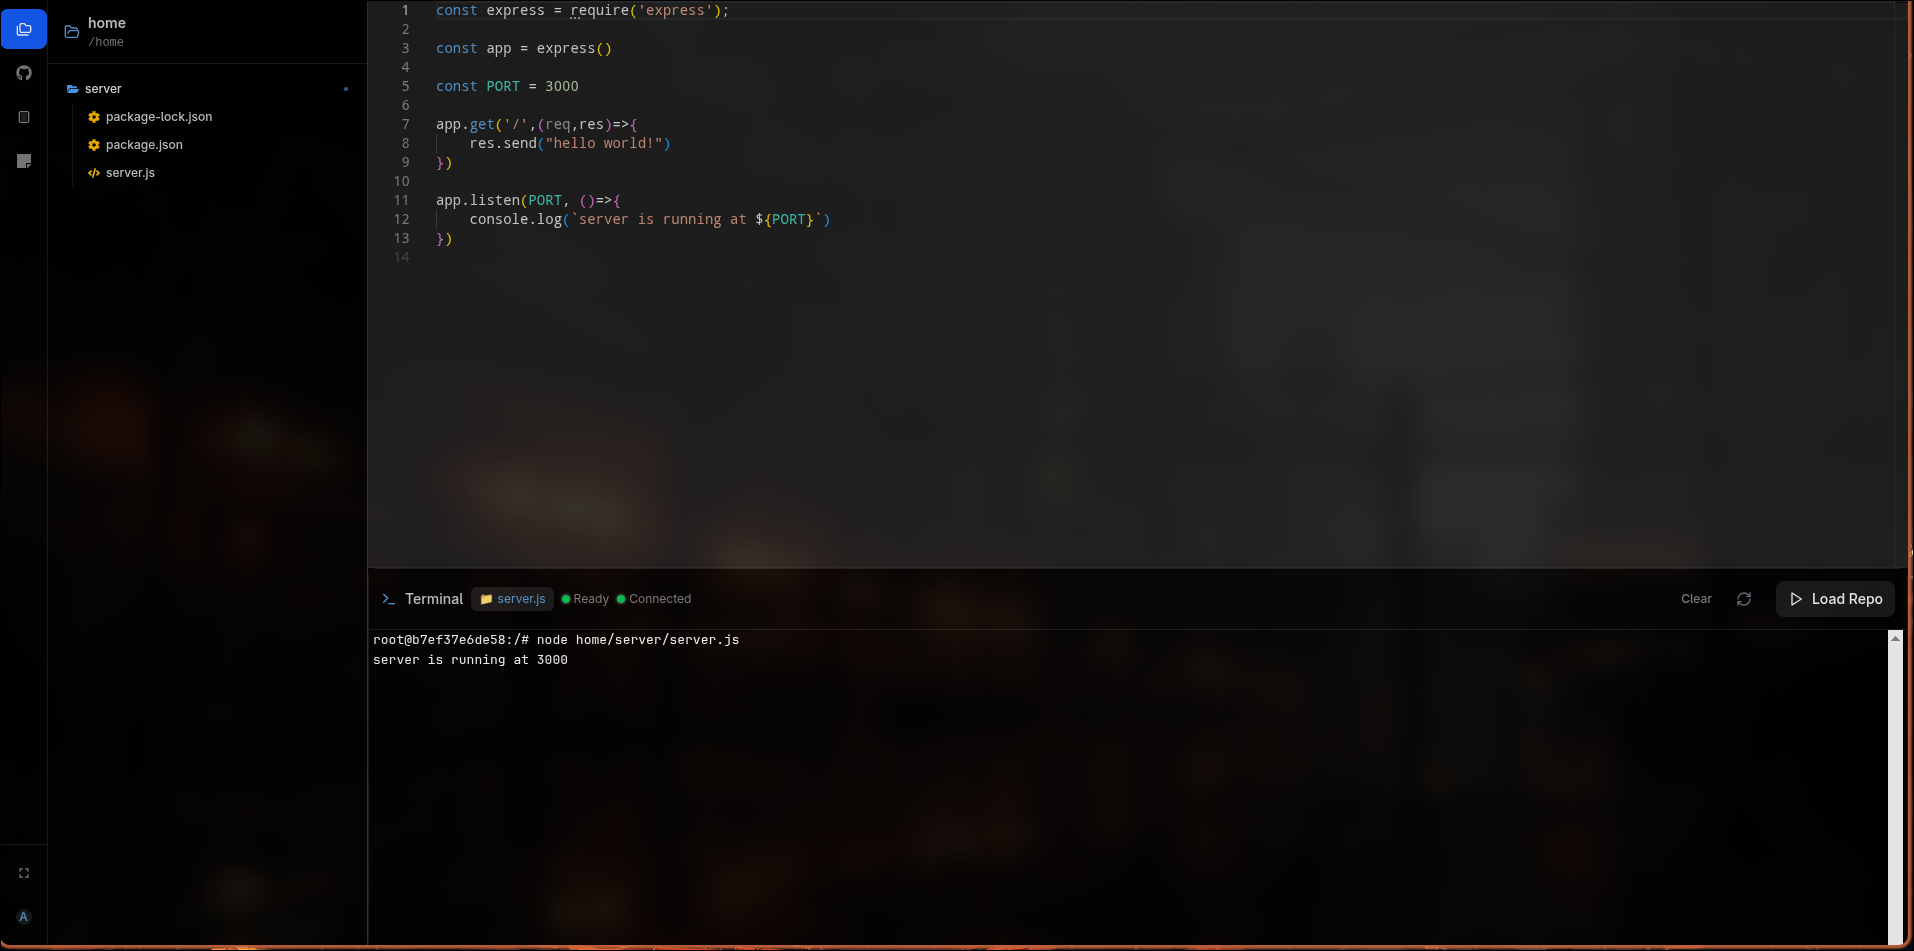
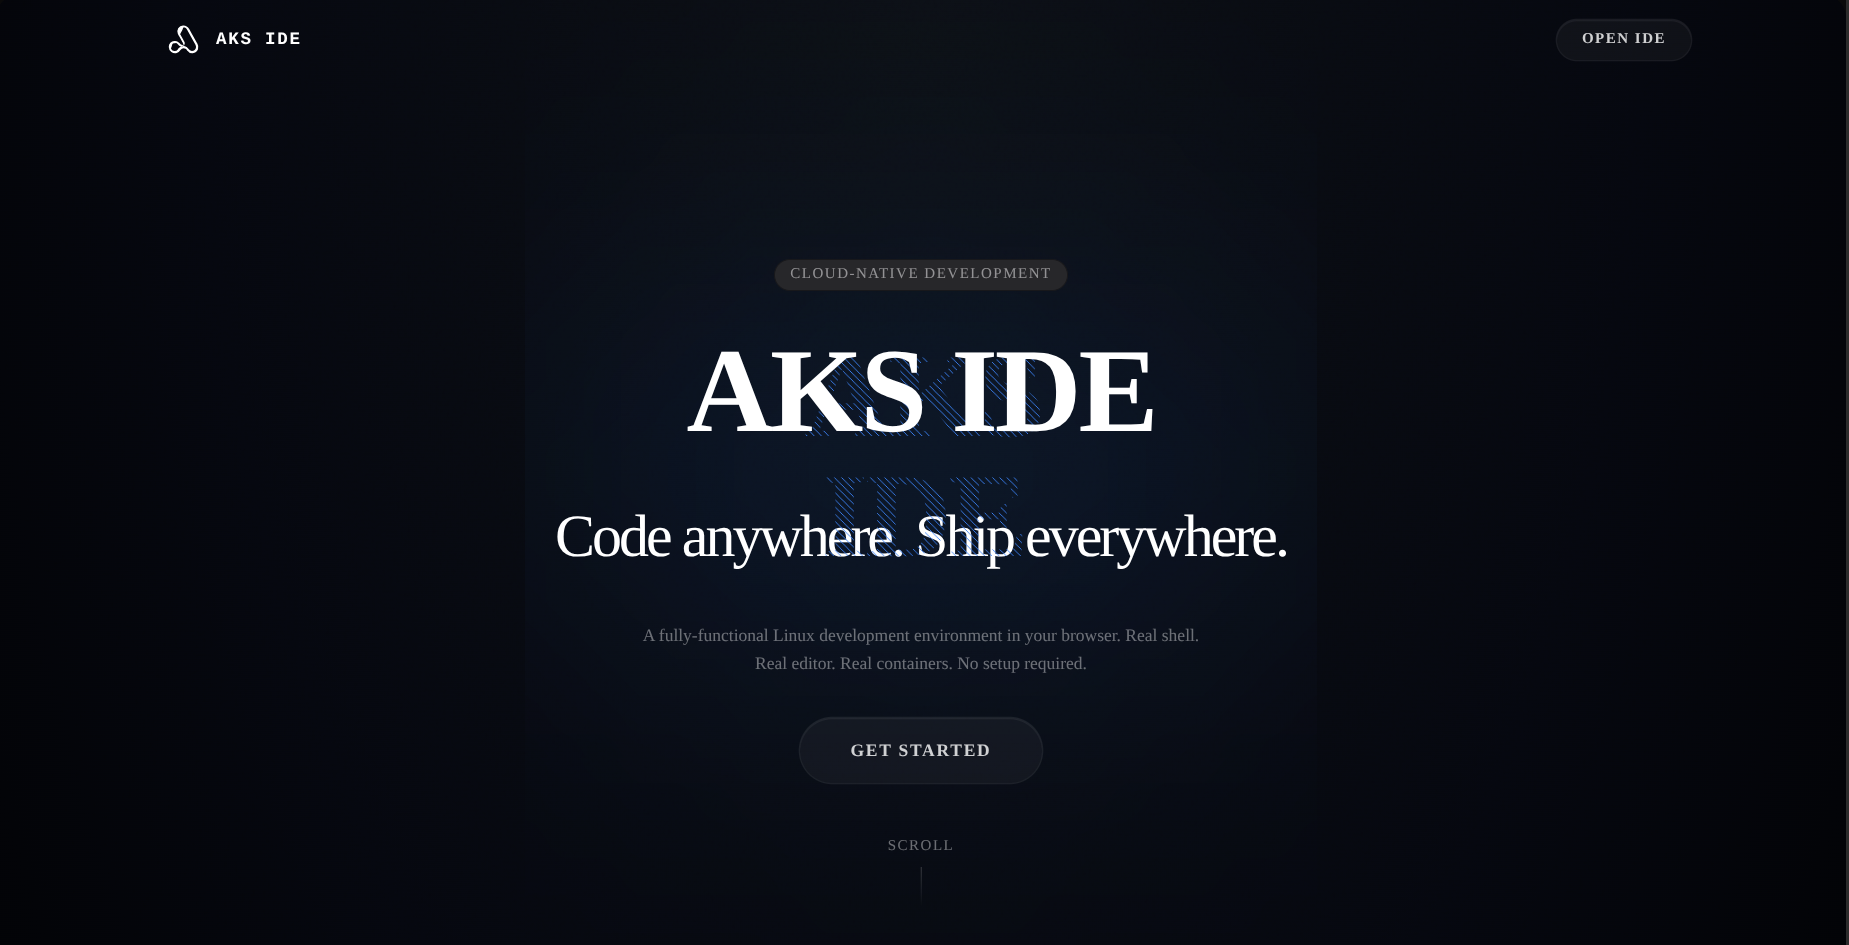
updated readme

diff --git a/README.md b/README.md
@@ -1,182 +1,190 @@
-# 🧠 Aks IDE – Terminal Module
+# Aks IDE
 
-The **Terminal Module** is a core component of **Aks IDE** – a cloud-based, real-time development environment that gives developers access to a fully-functional Linux shell directly in their browser. This module serves as the foundation for code execution, file interaction, and developer tooling within the IDE.
+A cloud-based, browser-accessible development environment. Each user gets an isolated Docker container running a real Linux shell — install any tool, write code, and run it, all from the browser with **minimum setup required**.
 
----
+![IDE Screenshot](image.png)
 
-![Terminal Image](image.png)
+## Demo Videos
 
-- **Watch Aks IDE in Action – Rust Server Branch**  
-  [Click to watch the demo video](https://drive.google.com/file/d/1lsRfhyKzmDOu24aeY3xtF6QpcKJjdgNM/view?usp=sharing)
-
-- **Legacy Version**  
-  This is the previous working version of the terminal module from the `main` branch.  
-  [Click to watch the legacy demo](https://drive.google.com/file/d/11ykA2aA7gbdgfaeedPh0G2Spd1P8DdyW/view?usp=sharing)
+- [Rust server branch demo](https://drive.google.com/file/d/1lsRfhyKzmDOu24aeY3xtF6QpcKJjdgNM/view?usp=sharing)
+- [Legacy terminal module](https://drive.google.com/file/d/11ykA2aA7gbdgfaeedPh0G2Spd1P8DdyW/view?usp=sharing)
 
 ---
 
-## 📌 Current Capabilities
+## Architecture
 
-### ✅ Real-Time Shell Access
+Three independent services communicate over HTTP and WebSocket:
 
-- Each session launches an **isolated Docker container** (Ubuntu-based).
-- Executes a real Linux shell (typically `bash`) inside the container.
-- Users can run commands, install packages (e.g., `node`, `python`), and execute scripts just like on a local system.
+| Service          | Language / Framework        | Port | Responsibility                                       |
+| ---------------- | --------------------------- | ---- | ---------------------------------------------------- |
+| `auth_service`   | Go                          | 8081 | Google OAuth, JWT issuance & rotation, user profiles |
+| `ws_ide`         | Rust + socketioxide (Axum)  | 8084 | WebSocket hub — terminal, file I/O, Docker lifecycle |
+| `aks_ide_client` | Next.js 16 + React 19 + Bun | 3000 | Browser IDE — editor, terminal, explorer             |
 
----
+### ws_ide module layout
 
-## ⚙️ Architecture Overview
-
-| Component     | Technology                  |
-| ------------- | --------------------------- |
-| Backend       | Rust (Axum framework)       |
-| Frontend      | React + xterm.js            |
-| Communication | WebSockets (bi-directional) |
-| Terminal Core | PTY (Pseudo-Terminal)       |
-
----
-
-## 💡 Core Features
-
-| Feature                     | Description                                                                     |
-| --------------------------- | ------------------------------------------------------------------------------- |
-| 🐧 **Real Linux Shell**     | Full-featured bash shell inside an Ubuntu-based Docker container.               |
-| 🔄 **WebSocket I/O**        | Real-time terminal input/output via WebSocket.                                  |
-| 🖥️ **xterm.js UI**          | Responsive terminal interface rendered in-browser using xterm.js.               |
-| 🧱 **Single Terminal**      | One terminal session per user (multi-terminal support coming soon).             |
-| 🛠 **Dev Tool Installation** | Users can install languages/tools (Node.js, Python, etc.) inside the container. |
-
----
-
-## 🔮 Roadmap & Future Features
-
-### 🗂️ 1. Multi-Terminal Support
-
-- Multiple terminal instances via tabs or split panes.
-- Support for:
-  - Shared container across terminals.
-  - Dedicated services per terminal (e.g., build, logs, DB shell).
-
-### 📁 2. File System Access & Management
-
-- In-browser visual file explorer with full CRUD.
-- Features:
-  - Browse files/directories.
-  - Upload/download files.
-  - Sync changes with terminal and editor in real time.
-
-### 🧑💻 3. Embedded Code Editor
-
-- Integrate **Monaco Editor** or **CodeMirror** for in-browser coding.
-- Edit files that are instantly runnable in the terminal.
-- Compile and run code without leaving the IDE.
-
-### 🤖 4. AI Assistant (via MCP Server)
-
-- AI features include:
-  - Shell command auto-completion.
-  - Real-time debugging and error explanation.
-  - Optimizations and AI-suggested fixes.
-  - Debug mode: auto-search errors and provide resolutions.
-
-### 🐳 5. Run Docker & Databases Inside IDE
-
-- Launch Docker containers from terminal sessions.
-- Run databases like **PostgreSQL**, **MySQL**, **MongoDB** inside IDE.
-- Lightweight browser-based GUI for database management.
-- Simulate microservices and multi-container applications directly from the IDE.
+```text
+ws_ide/src/
+├── events/mod.rs                  # Typed socket event constants (incoming / outgoing)
+├── socket_handler/
+│   ├── mod.rs                     # Registers all socket event handlers
+│   ├── load_terminal.rs           # Spins up a Docker container + PTY on connect
+│   ├── pseudo_terminal.rs         # Streams PTY output back to the client
+│   ├── terminal_events/
+│   │   ├── terminal_input.rs      # Writes keystrokes to the PTY
+│   │   ├── terminal_resize.rs     # Sends TIOCSWINSZ on window resize
+│   │   └── close_terminal.rs      # Cleans up PTY and container state
+│   ├── file_events/
+│   │   ├── get_file_data.rs       # docker exec cat <path>
+│   │   └── save_file_data.rs      # docker exec tee + mv (atomic write)
+│   └── repo_events/
+│       └── repo_structure.rs      # Single-level docker exec ls -la per request
+├── docker_vm/create_container.rs  # Pulls image, runs container, persists container ID
+├── state.rs                       # Shared DashMap state (sockets, terminals, containers)
+└── types.rs                       # Payload structs for all socket events
+```
 
 ---
 
-## ⚙️ Why Rust for the Backend?
+## Features
 
-- **System-level control**: Ideal for managing PTYs, IO streams, and long-running processes.
-- **High performance**: Minimal memory usage and low latency.
-- **Memory safety**: Eliminates entire classes of bugs common in JS/TS.
-- **Binary data handling**: More robust than Node.js for binary streams and filesystem tasks.
+### Terminal
 
-> _The prototype built with Node.js faced challenges with binary data and stream stability. Rust resolves these with performance and safety guarantees._
+- Real Linux shell (bash) inside an isolated Ubuntu Docker container per user
+- PTY-backed I/O — resize, raw input, full colour output
+- Multiple terminal tabs with independent sessions
+- Pre-configured support for Node.js, Python, Rust, and more
+- xterm.js frontend for rendering
+
+### Code Editor
+
+- Monaco Editor (same engine as VS Code)
+- Multi-file tabs with unsaved-change indicators
+- Breadcrumb showing the current file path
+- Language auto-detected from file extension
+
+### File Explorer
+
+- **Lazy / on-demand loading** — only the current directory level is fetched; sub-directories load when expanded
+- `node_modules`, `.git`, and other heavy directories are fully accessible — loaded on demand like everything else
+- Fetched directories are cached permanently for the session (no re-fetch on collapse/expand)
+- Navigate into any folder as root, go back to parent with one click, or type any absolute path directly
+- Refresh re-fetches the root without clearing the cache
+
+### Auth
+
+- Google OAuth login via the Go auth service
+- RS256 JWT access tokens with rotating refresh tokens
+- Tokens stored in localStorage; auto-refreshed by the client
 
 ---
 
-## 🚧 Technical Challenges
+## Tech Stack
 
-### ❌ Ephemeral Docker Filesystem
-
-- Docker containers are **stateless** by default – all session data is lost on shutdown.
-- Limitations:
-  - Files are not retained across sessions.
-  - Makes project continuity and file storage unreliable.
-
-### ✅ Planned Solutions
-
-- Integration with:
-  - External volumes for persistent storage.
-  - Cloud storage (e.g., AWS S3) for file backups.
-  - Database or object storage for session snapshots and state.
+| Layer         | Technology                                       |
+| ------------- | ------------------------------------------------ |
+| Frontend      | Next.js 16, React 19, TypeScript, Tailwind CSS 4 |
+| UI components | shadcn/ui, Radix UI, Lucide icons                |
+| Code editor   | Monaco Editor (`@monaco-editor/react`)           |
+| Terminal UI   | xterm.js + xterm-addon-fit                       |
+| WebSocket     | socket.io-client ↔ socketioxide (Rust)           |
+| Backend       | Rust (Axum), socketioxide                        |
+| Auth service  | Go, PostgreSQL                                   |
+| Containers    | Docker (Ubuntu base image)                       |
+| Package mgr   | Bun (frontend), Cargo (Rust), Go modules         |
 
 ---
-
-## 📦 Tech Stack Summary
-
-| Layer         | Technology                           |
-| ------------- | ------------------------------------ |
-| Frontend      | React, xterm.js                      |
-| Backend       | Rust (Axum)                          |
-| Terminal Core | PTY (bash shell)                     |
-| Containers    | Docker (Ubuntu base image)           |
-| Communication | WebSocket                            |
-| Editor        | Monaco Editor / CodeMirror (planned) |
-| AI Assistant  | MCP Server, local LLMs (planned)     |
-| File Storage  | Cloud Storage, S3, External Volumes  |
 
 ## Running the Project
 
-- I can not dockerize the websocket server yet, as then it would be docker within docker. So, I am running the ws server on my local machine and connecting to it from the docker container.
+### Prerequisites
 
-- To run the project, follow these steps:
+- [Rust](https://www.rust-lang.org/) + Cargo
+- [Go](https://golang.org/) 1.22+
+- [Bun](https://bun.sh/) 1.x
+- [Docker](https://www.docker.com/) (running and accessible to the current user)
+- [PostgreSQL](https://www.postgresql.org/) at `localhost:5432`
 
-1. **Clone the repository**:
+### Clone
 
-  ```bash
-  git clone https://github.com/Akash-Kumar-Sinha/Aks_ide.git
-  ```
+```bash
+git clone https://github.com/Akash-Kumar-Sinha/Aks_ide.git
+cd Aks_ide
+```
 
-  ```bash 
-   cd Aks_ide
-  ```
+### Option A — One command (recommended)
 
-2. Run the **Frontend and Backend HTTP Server**:
+```bash
+chmod +x run.sh
+./run.sh
+```
 
-  ```bash
-  docker compose up
-  ```
+Runs migrations, then starts all three services. Press `Ctrl+C` to stop everything.
 
-3. **Run the WebSocket Server**
+### Option B — Each service manually
 
-  ```bash
-  cargo run
-  ```
+**1. Database migration** (run once, or after schema changes)
 
-4. Open your browser and navigate to `http://localhost:5173` to access the IDE.
+```bash
+cd auth_service
+go run ./cmd/migrations
+```
+
+Creates tables: `users`, `profiles`, `providers`, `refresh_tokens`, `workspace_containers`.
+
+**2. Auth service** (Go — port 8081)
+
+```bash
+cd auth_service
+go run ./cmd/server
+```
+
+**3. WebSocket IDE server** (Rust — port 8084)
+
+```bash
+cd ws_ide
+cargo run
+```
+
+**4. Frontend** (Next.js — port 3000)
+
+```bash
+cd aks_ide_client
+bun install
+bun run dev
+```
+
+Open `http://localhost:3000` in your browser.
+
+### Port reference
+
+| Service          | Port |
+| ---------------- | ---- |
+| `auth_service`   | 8081 |
+| `ws_ide`         | 8084 |
+| `aks_ide_client` | 3000 |
 
 ---
 
-## 🚀 Vision
+## Known Limitations
 
-The Terminal Module aims to evolve into a full-stack **cloud-native development OS**:
-
-- Seamless **code → compile → debug → deploy** lifecycle.
-- Fully integrated **AI pair programming** and real-time collaboration.
-- Developer environments without local setup – code instantly from anywhere.
-- Local-first desktop application that connects to cloud infrastructure.
-
-> _Just install our desktop app, log in, and start building – no setup required._
+**Ephemeral container filesystem** — Docker containers are stateless by default. Files written during a session are lost if the container is removed. Persistent volume mounting is on the roadmap.
 
 ---
 
-## 📬 Contact
+## Roadmap
 
-Have questions, suggestions, or want to collaborate?
+| Status     | Feature                    | Description                                                            |
+| ---------- | -------------------------- | ---------------------------------------------------------------------- |
+| Planned    | Persistent storage         | Docker volume integration so user files survive container restarts     |
+| Planned    | Cloud backup               | Optional S3 sync for automatic file backup across sessions             |
+| Planned    | AI assistant               | Shell autocomplete, error explanation, and AI-suggested fixes via MCP  |
+| Planned    | Multi-server orchestration | Horizontal scaling and distributed container scheduling                |
+| Planned    | Desktop app                | Offline-capable wrapper — log in and code from anywhere                |
+| Planned    | Real-time collaboration    | Shared sessions and live cursor presence for pair programming          |
 
-- ✉️ Email: [[email redacted]]
+---
+
+## Contact
+
+Questions, feedback, or collaboration: [[email redacted]](mailto:[email redacted])